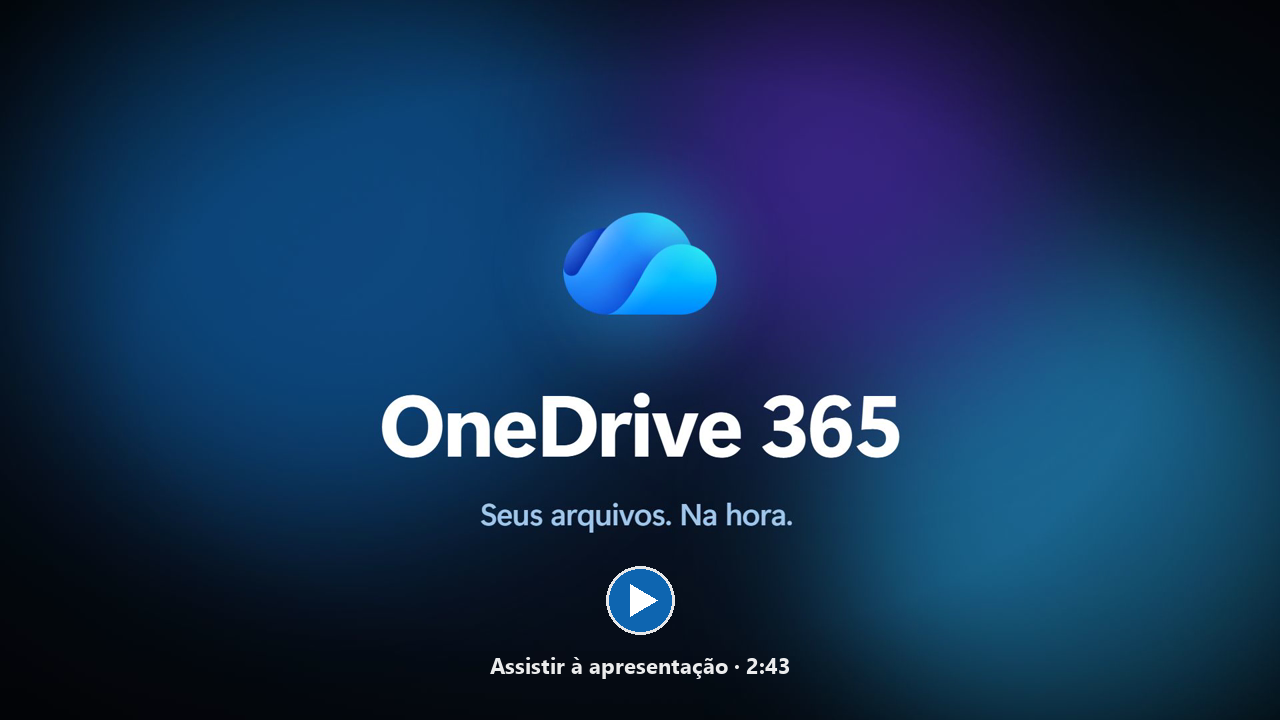
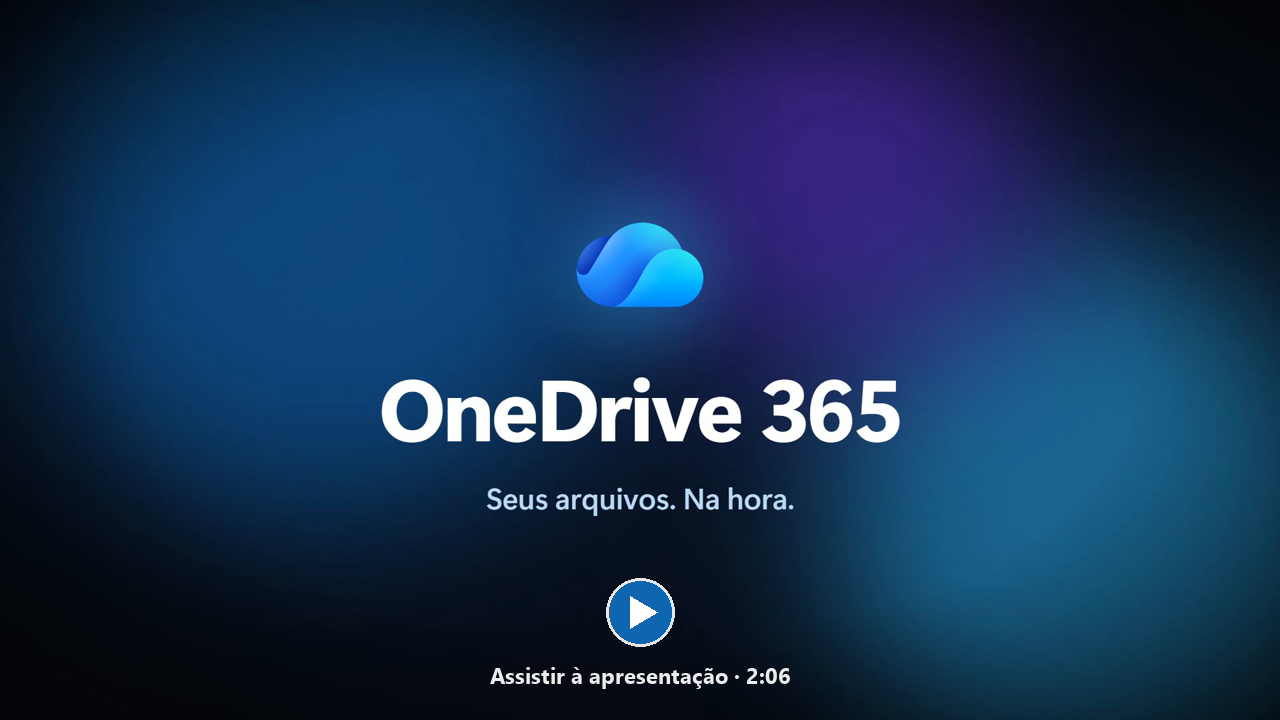
Vídeo v2 (2:06, 16:9 e vertical 4:5): capa e link da versão vertical; diagnóstico state: exporta o estado da interface

diff --git a/src/TrayApp.cs b/src/TrayApp.cs
@@ -200,6 +200,13 @@ sealed partial class TrayApp : ApplicationContext
             await _window!.CaptureAsync(parts[1]);
             return;
         }
+        if (msg.StartsWith("state:"))   // diagnóstico: grava o estado que a janela e o painel recebem (JSON) para revisão/prints
+        {
+            await _ready.Task;
+            var json = System.Text.Json.JsonSerializer.Serialize(BuildState(), new System.Text.Json.JsonSerializerOptions { PropertyNamingPolicy = System.Text.Json.JsonNamingPolicy.CamelCase });
+            File.WriteAllText(msg["state:".Length..], json);
+            return;
+        }
         if (msg == "quit") { await Quit(confirm: false); return; }
         if (msg == "diag:throw")   // diagnóstico: erro proposital fora de qualquer try (testa a rede de segurança do Program)
         {

diff --git a/README.md b/README.md
@@ -10,7 +10,7 @@ O OneDrive e o SharePoint aparecem como uma unidade do Windows (`M:`). Tudo é l
 
 [![Assistir à apresentação do OneDrive 365](docs/video-capa.png)](https://github.com/Caique-Santos-Barbosa/onedrive-365/releases/download/v1.1.0/OneDrive365-apresentacao.mp4)
 
-[**⬇ Baixar OneDrive365.exe**](../../releases/latest) · [Como funciona](#-o-que-fizemos-a-arquitetura-do-google-drive-com-o-onedrive) · [Telas](#-telas) · [Para TI](#-para-ti)
+[**⬇ Baixar OneDrive365.exe**](../../releases/latest) · [Vídeo vertical (4:5)](https://github.com/Caique-Santos-Barbosa/onedrive-365/releases/download/v1.1.0/OneDrive365-apresentacao-vertical.mp4) · [Como funciona](#-o-que-fizemos-a-arquitetura-do-google-drive-com-o-onedrive) · [Telas](#-telas) · [Para TI](#-para-ti)
 
 </div>
 
